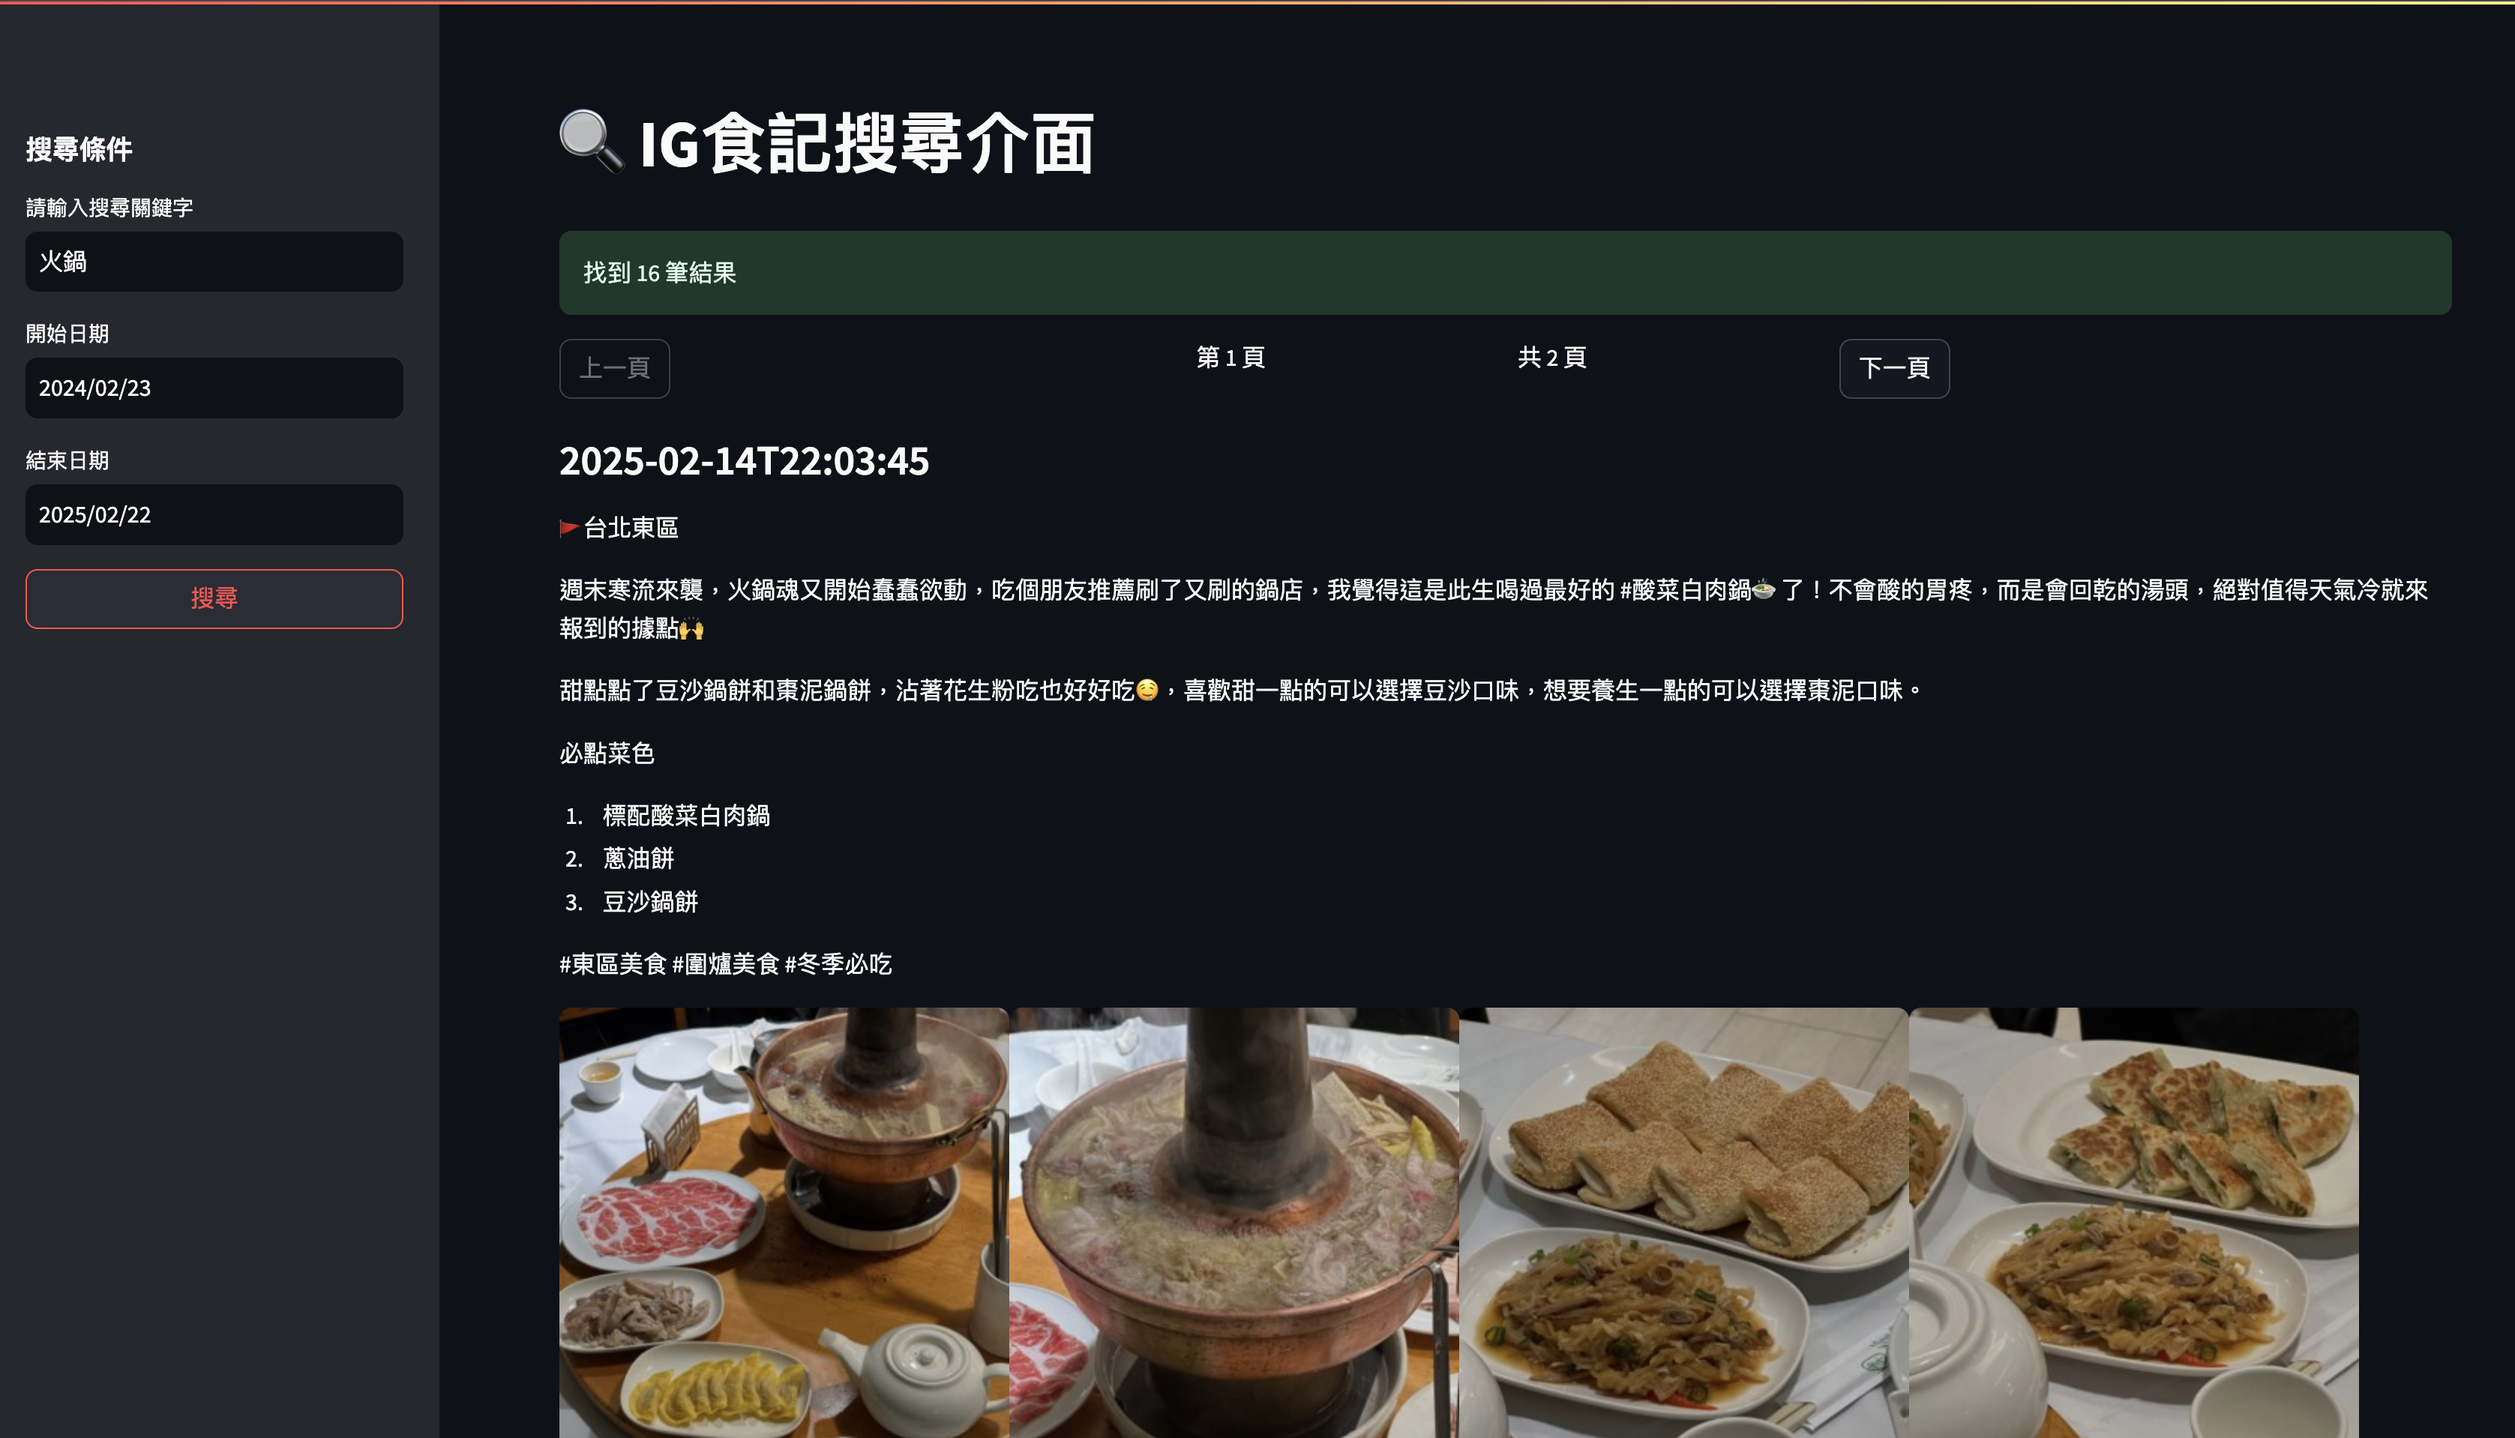
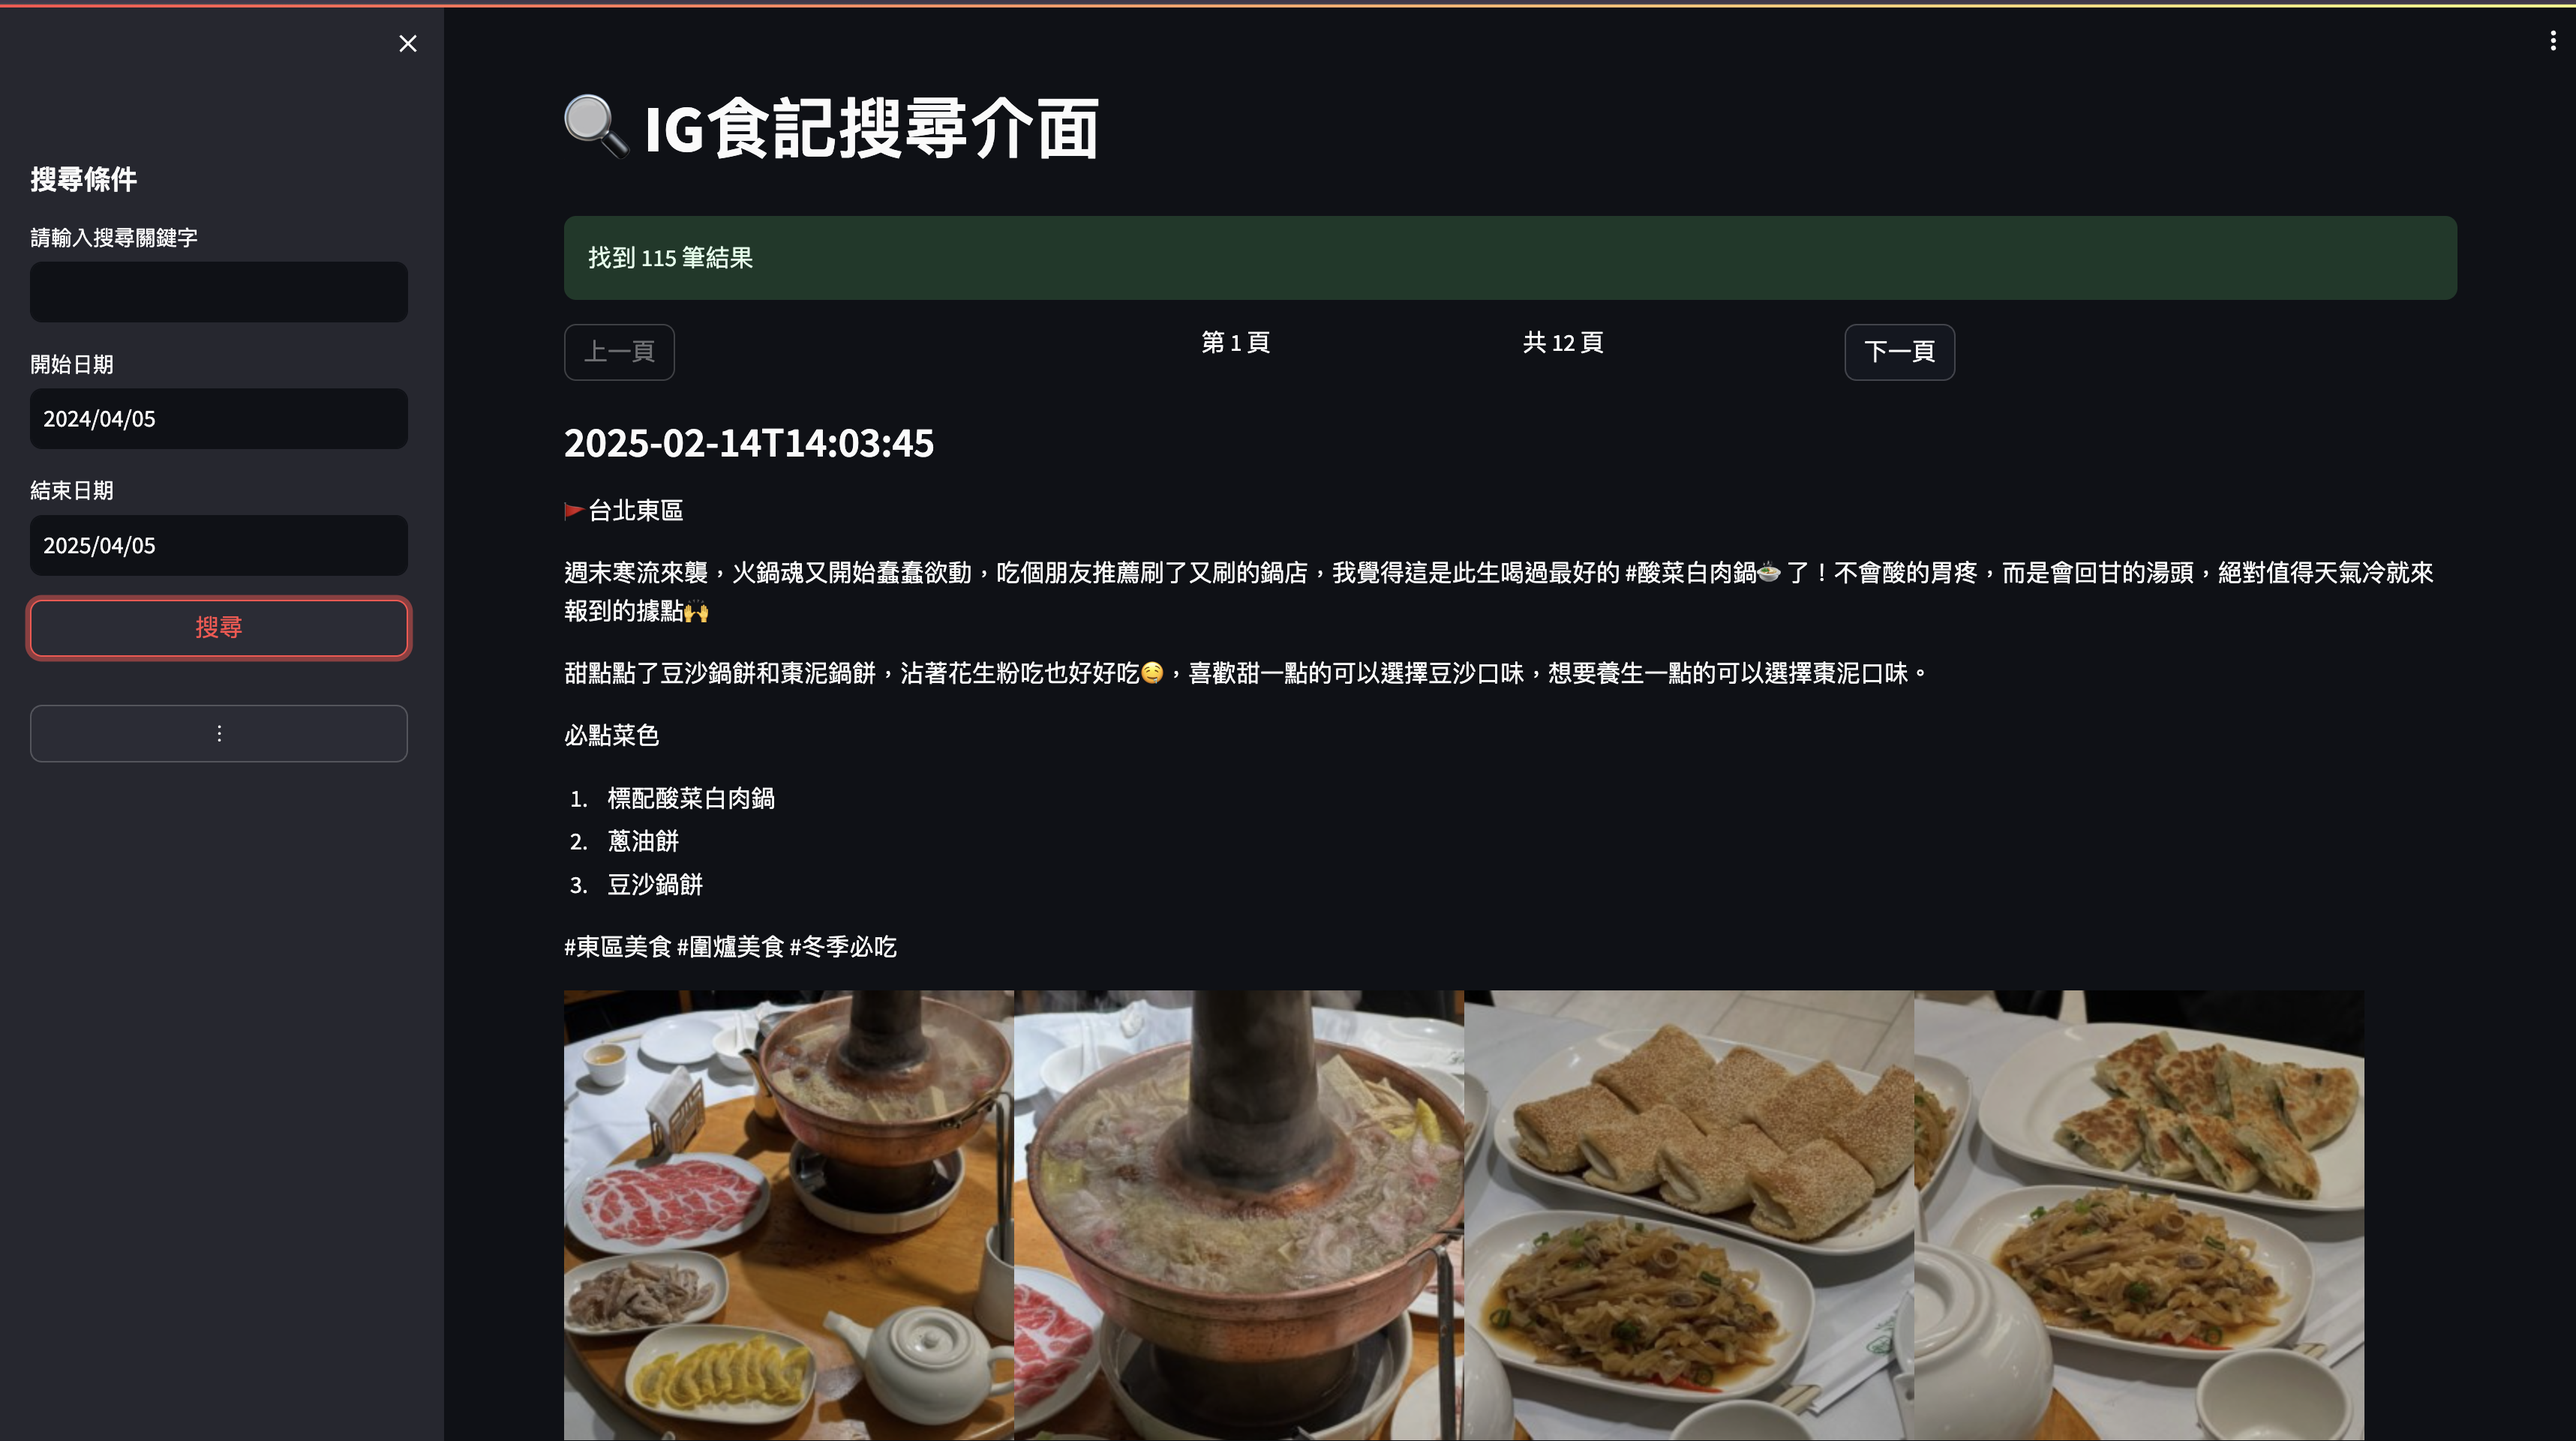
Upload (#14)
* 更新 README.md 和 setup.py，調整資料處理流程及檔案複製邏輯，確保媒體檔案路徑正確並保留檔案權限

* 更新 .gitignore，新增 Python 緩存檔案忽略規則；調整 README.md 內容順序，新增 demo 圖片；刪除不必要的緩存檔案

* 移除 Git LFS 相關說明，簡化系統要求與安裝步驟

Changed region(s): [[0.2171, 0.0615, 0.9922, 1.0], [0.0, 0.0923, 0.186, 0.4614], [0.0, 0.0, 1.0, 0.0308]]

diff --git a/streamlit_app/setup.py b/streamlit_app/setup.py
@@ -149,11 +149,16 @@ def process_instagram_data() -> List[Dict]:
             for media_item in media_list:
                 uri = media_item.get("uri", "")
                 if uri:
-                    # 確保路徑以posts開頭
-                    if not uri.startswith("posts/"):
-                        uri = f"posts/{uri}"
-                    # 更新為完整的media路徑
-                    media_item["uri"] = os.path.join("media", uri)
+                    # 提取檔案名稱和日期目錄
+                    parts = uri.split('/')
+                    filename = parts[-1]
+                    date_dir = parts[-2] if len(parts) > 1 else None
+                    
+                    # 組合新的路徑
+                    if date_dir:
+                        media_item["uri"] = os.path.join("media", "posts", date_dir, filename)
+                    else:
+                        media_item["uri"] = os.path.join("media", "posts", filename)
                 processed_media.append(media_item)
                 
             content.append({
@@ -211,6 +216,28 @@ def import_data_to_elasticsearch(data: List[Dict]):
             res = es.index(index=ES_INDEX, body=doc)
             logger.info(f"✅ 文本已寫入，ID: {res['_id']}")
 
+def copy_with_metadata(src: str, dst: str):
+    """複製檔案並保留metadata
+    
+    Args:
+        src: 來源檔案路徑
+        dst: 目標檔案路徑
+    """
+    # 建立目標目錄（如果不存在）
+    os.makedirs(os.path.dirname(dst), exist_ok=True)
+    
+    # 使用低層級檔案操作以確保更好的控制
+    with open(src, 'rb') as fsrc:
+        with open(dst, 'wb') as fdst:
+            while True:
+                chunk = fsrc.read(1024 * 1024)  # 1MB chunks
+                if not chunk:
+                    break
+                fdst.write(chunk)
+    
+    # 複製檔案權限
+    os.chmod(dst, 0o666)
+
 def cleanup():
     """清理暫存檔案和目錄"""
     # 搬移媒體檔案
@@ -218,35 +245,64 @@ def cleanup():
     posts_dir = os.path.join(media_dir, "posts")
     if os.path.exists(posts_dir):
         try:
-            # 清空或創建目標目錄
-            if os.path.exists(MEDIA_DIR):
-                shutil.rmtree(MEDIA_DIR)
+            # 確保目標目錄存在
             os.makedirs(MEDIA_DIR, exist_ok=True)
             os.chmod(MEDIA_DIR, 0o777)
             
-            # 直接複製整個posts目錄到media目錄
             target_posts_dir = os.path.join(MEDIA_DIR, "posts")
-            logger.info(f"開始複製檔案從 {posts_dir} 到 {target_posts_dir}")
-            shutil.copytree(posts_dir, target_posts_dir)
             
-            # 設置所有複製後檔案的權限
-            for root, dirs, files in os.walk(target_posts_dir):
-                # 設置目錄權限
-                for d in dirs:
-                    dir_path = os.path.join(root, d)
-                    os.chmod(dir_path, 0o777)
-                # 設置檔案權限
-                for f in files:
-                    file_path = os.path.join(root, f)
-                    os.chmod(file_path, 0o666)
-                    
+            # 如果目標目錄已存在，先移除
+            if os.path.exists(target_posts_dir):
+                for root, dirs, files in os.walk(target_posts_dir, topdown=False):
+                    for name in files:
+                        file_path = os.path.join(root, name)
+                        try:
+                            os.chmod(file_path, 0o666)
+                            os.remove(file_path)
+                        except OSError:
+                            pass
+                    for name in dirs:
+                        dir_path = os.path.join(root, name)
+                        try:
+                            os.chmod(dir_path, 0o777)
+                            os.rmdir(dir_path)
+                        except OSError:
+                            pass
+                try:
+                    os.rmdir(target_posts_dir)
+                except OSError:
+                    pass
+            
+            # 建立目標目錄
+            os.makedirs(target_posts_dir, exist_ok=True)
+            os.chmod(target_posts_dir, 0o777)
+            
+            # 複製所有檔案
+            for root, dirs, files in os.walk(posts_dir):
+                # 計算相對路徑
+                rel_path = os.path.relpath(root, posts_dir)
+                target_root = os.path.join(target_posts_dir, rel_path)
+                
+                # 建立目錄
+                os.makedirs(target_root, exist_ok=True)
+                os.chmod(target_root, 0o777)
+                
+                # 複製檔案
+                for file in files:
+                    src_file = os.path.join(root, file)
+                    dst_file = os.path.join(target_root, file)
+                    try:
+                        copy_with_metadata(src_file, dst_file)
+                        logger.debug(f"複製檔案：{src_file} -> {dst_file}")
+                    except Exception as e:
+                        logger.warning(f"複製檔案失敗 {src_file}: {e}")
+                        continue
+            
             logger.info("複製完成並設置權限")
         except Exception as e:
             logger.error(f"移動檔案時發生錯誤: {e}")
-            # 如果發生錯誤，確保目標目錄存在並有正確權限
-            os.makedirs(MEDIA_DIR, exist_ok=True)
-            os.chmod(MEDIA_DIR, 0o777)
             raise
+        
         logger.info(f"📁 資料已搬移到 {MEDIA_DIR} 並設置適當權限")
     
     # 清除暫存

diff --git a/README.md b/README.md
@@ -6,28 +6,31 @@ InstaSearch 是一個基於 **Elasticsearch** 的全文檢索系統，提供 **S
 ---
 ### 網站介面
 ![網站介面](imgs/demo.png)
-### ElasticSearch示意資料(Kibana介面)
+
+### 設定頁面(上傳IG資料檔)
 ![網站介面](imgs/demo2.png)
+
+### ElasticSearch示意資料(Kibana介面)
+![網站介面](imgs/demo3.png)
 ---
 
 ## 系統要求
 
-- Python 3.7+
 - Docker 與 Docker Compose
-- Git LFS (用於下載範例資料)
 
 ## 安裝與設定
 
-### **1⃣ 安裝 Elasticsearch & Kibana**
-**使用 Docker Compose 啟動服務：**
+
+### **2⃣ 啟動所有服務**
+使用 Docker Compose 啟動所有服務（Elasticsearch、Kibana、Streamlit）：
 ```bash
-docker-compose up -d
+docker compose up -d
 ```
 
-### **2⃣ 下載範例IG檔**
-```bash
-git lfs pull
-```
+此命令會啟動：
+- Elasticsearch (http://localhost:9200)
+- Kibana (http://localhost:5601)
+- Streamlit 應用程式 (http://localhost:8501)
 
 ### **3⃣ 驗證服務狀態**
 
@@ -39,37 +42,27 @@ curl http://localhost:9200
 **檢查 Kibana：**
 打開瀏覽器訪問： 👉 [http://localhost:5601](http://localhost:5601)
 
-### **4⃣ 安裝相依套件**
-```bash
-pip install elasticsearch pandas
-```
+**檢查 Streamlit：**
+打開瀏覽器訪問： 👉 [http://localhost:8501](http://localhost:8501)
 
 ---
 
 ## 使用方法
 
-### **1⃣ 資料初始化**
+### **1⃣ 資料處理**
 
-專案包含一個強大的`setup.py`腳本，用於處理Instagram資料的導入：
+專案包含一個完整的資料處理流程，用於處理 Instagram 資料的導入：
 
-1. 將你的Instagram資料壓縮檔放在`ig_data/`目錄下
-2. 執行初始化腳本：
-```bash
-python setup.py
-```
+1. 將你的 Instagram 資料壓縮檔放在 `ig_data/` 目錄下
+2. 系統會自動：
+   - ✅ 解壓縮 Instagram 資料
+   - ✅ 處理文章內容與媒體檔案
+   - ✅ 建立 Elasticsearch 索引
+   - ✅ 導入資料至 Elasticsearch
+   - ✅ 自動整理媒體檔案至正確位置
 
-此腳本會自動：
-- ✅ 解壓縮Instagram資料
-- ✅ 處理文章內容與媒體檔案
-- ✅ 建立Elasticsearch索引
-- ✅ 導入資料至Elasticsearch
-- ✅ 自動整理媒體檔案至正確位置
-
-### **2⃣ 啟動網站介面**
-```bash
-cd streamlit_app
-streamlit run app.py
-```
+### **2⃣ 使用網站介面**
+直接訪問 http://localhost:8501 即可使用搜尋功能
 
 ---
 
@@ -80,23 +73,28 @@ InstaSearch/
 │── ig_data/                   # Instagram資料目錄
 │── media/                     # 媒體檔案存放目錄
 │── docker-compose.yml         # Docker 設定文件
-│── setup.py                   # 資料初始化腳本
-│── streamlit_app/            # Python 程式碼目錄
-│   └── app.py               # Streamlit應用程式
+│── streamlit_app/            # Streamlit 應用程式目錄
+│   ├── app.py               # Streamlit 應用程式主程式
+│   ├── setup.py             # 資料處理腳本
+│   └── Dockerfile          # Streamlit 容器設定
 │── notebook/                 # ES資料新刪修notebook腳本
 │── README.md                # 本文件
 ```
 
 ## ⚙ 系統架構
 
-1. **資料處理流程**
-   - 解壓縮Instagram資料
-   - 處理JSON格式的貼文資料
-   - 整理媒體檔案
-   - 建立Elasticsearch索引
-   - 導入處理後的資料
+1. **容器化服務**
+   - Elasticsearch：資料儲存和搜尋引擎
+   - Kibana：資料視覺化和管理介面
+   - Streamlit：使用者介面和搜尋功能
 
-2. **搜尋功能**
+2. **資料處理流程**
+   - 檔案系統處理：自動處理跨容器的檔案操作
+   - 智能路徑處理：確保媒體檔案路徑正確
+   - 自動權限管理：確保容器間的檔案存取權限
+   - Elasticsearch 整合：自動建立索引和導入資料
+
+3. **搜尋功能**
    - 全文檢索
    - 時間範圍篩選
    - 媒體檔案預覽
@@ -105,28 +103,31 @@ InstaSearch/
 
 ## 🛠 常見問題
 
-### **1⃣ Elasticsearch/Kibana 無法啟動？**
+### **1⃣ 服務無法啟動？**
 檢查執行中的容器：
 ```bash
-docker ps | grep elasticsearch
+docker ps
 ```
 重置並重啟服務：
 ```bash
-docker-compose down -v
-docker-compose up -d
+docker compose down -v
+docker compose up -d
 ```
 
 ### **2⃣ 資料導入失敗？**
 確認以下幾點：
-- Elasticsearch是否正常運行
-- Instagram資料壓縮檔是否放在正確位置
-- 檢查logs目錄下的錯誤日誌
+- 檢查容器日誌：
+  ```bash
+  docker compose logs streamlit_search
+  ```
+- 確認 `ig_data` 目錄中有正確的 ZIP 檔案
+- 檢查 `logs` 目錄下的錯誤日誌
 
 ### **3⃣ 媒體檔案無法顯示？**
 確認：
-- media目錄存在且有適當的讀取權限
-- 檢查檔案路徑是否正確
-- 確認檔案格式是否支援
+- 檢查容器掛載目錄的權限
+- 確認檔案路徑格式是否正確（應為 /app/media/posts/[date]/[filename]）
+- 重新執行資料處理流程
 
 ---
 
